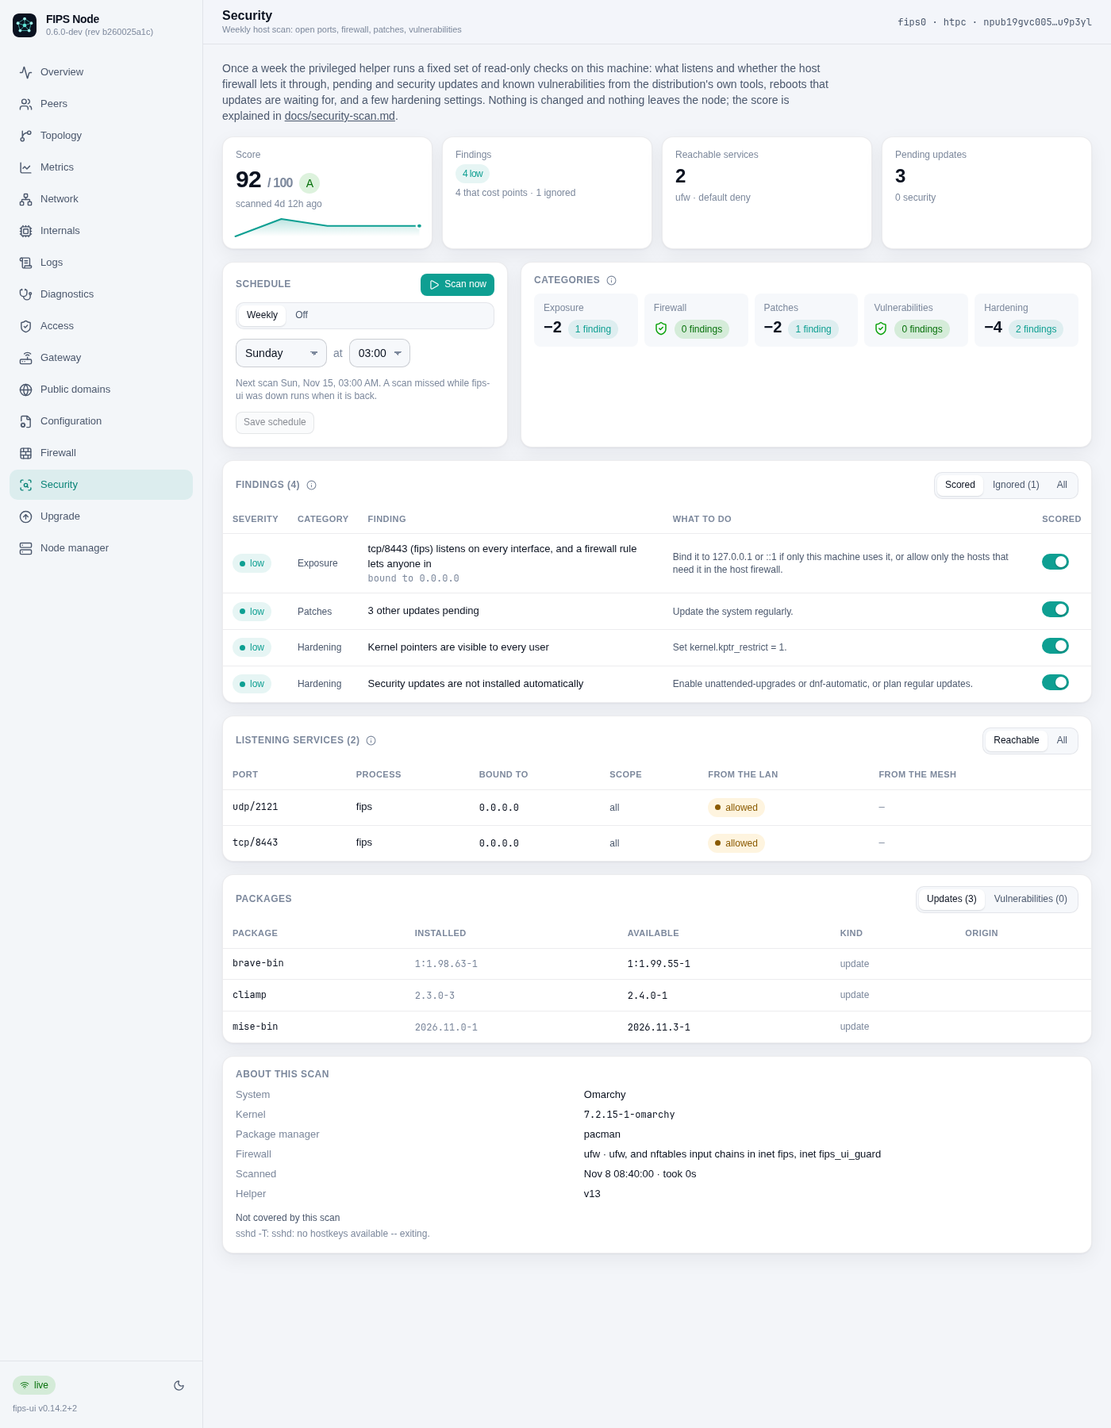
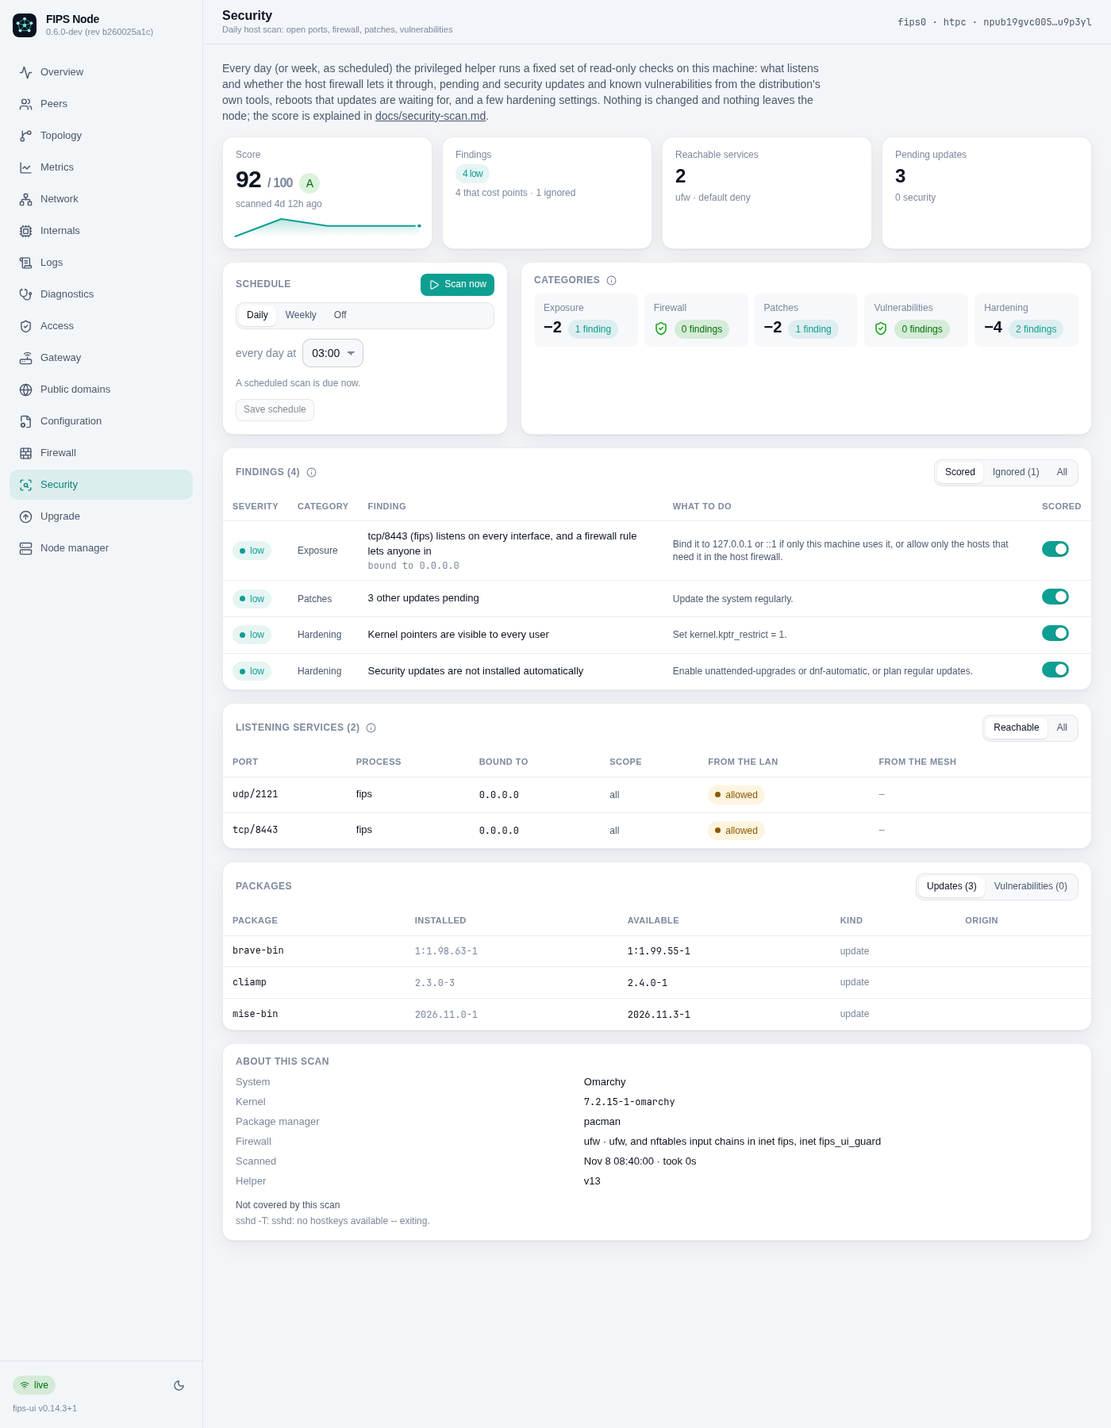
Security scan: daily by default, weekly as an option (#65)
The schedule offers Daily at an hour (the default, 03:00) or Weekly on a weekday. A schedule saved by an earlier version stays weekly.

diff --git a/web/src/views/Security.tsx b/web/src/views/Security.tsx
@@ -41,7 +41,7 @@ export function Security({ readOnly }: { readOnly: boolean }) {
   return (
     <div className="grid gap-4 fade-in">
       <p className="text-ink-2 text-sm max-w-3xl">
-        Once a week the privileged helper runs a fixed set of read-only checks on this machine: what listens and whether the host firewall lets it through,
+        Every day (or week, as scheduled) the privileged helper runs a fixed set of read-only checks on this machine: what listens and whether the host firewall lets it through,
         pending and security updates and known vulnerabilities from the distribution's own tools, reboots that updates are waiting for, and a few hardening settings.
         Nothing is changed and nothing leaves the node; the score is explained in <a className="underline" href="https://github.com/fr34aky/fips-ui/blob/main/docs/security-scan.md" target="_blank" rel="noreferrer">docs/security-scan.md</a>.
       </p>
@@ -108,13 +108,15 @@ function SeverityCounts({ report }: { report: Report }) {
   return <span className="flex gap-1.5 flex-wrap text-base">{shown.map((s) => <Chip key={s} tone={severityTone(s)} dot={false}>{counts[s]} {s}</Chip>)}</span>;
 }
 
-function ScheduleCard({ settings, running, startedAt, nextRun, available, readOnly, onScan, onSaved }: { settings: ScanSettings; running: boolean; startedAt?: number; nextRun: number | null; available: boolean; readOnly: boolean; onScan: () => void; onSaved: () => void }) {
+function ScheduleCard({ settings: saved, running, startedAt, nextRun, available, readOnly, onScan, onSaved }: { settings: ScanSettings; running: boolean; startedAt?: number; nextRun: number | null; available: boolean; readOnly: boolean; onScan: () => void; onSaved: () => void }) {
   const toast = useToast();
   const now = useNow(1000);
+  // A managed node on a fips-ui before 0.15 answers without `every`: it scans weekly.
+  const settings = useMemo(() => ({ ...saved, every: saved.every ?? 'week' }), [saved]);
   const [draft, setDraft] = useState(settings);
   const [busy, setBusy] = useState(false);
-  useEffect(() => setDraft(settings), [settings.enabled, settings.weekday, settings.hour]); // eslint-disable-line react-hooks/exhaustive-deps
-  const dirty = draft.enabled !== settings.enabled || draft.weekday !== settings.weekday || draft.hour !== settings.hour;
+  useEffect(() => setDraft(settings), [settings.enabled, settings.every, settings.weekday, settings.hour]); // eslint-disable-line react-hooks/exhaustive-deps
+  const dirty = draft.enabled !== settings.enabled || draft.every !== settings.every || draft.weekday !== settings.weekday || draft.hour !== settings.hour;
   const save = async () => {
     setBusy(true);
     try { await securityApi.saveSettings(draft); toast('ok', 'Schedule saved'); onSaved(); }
@@ -125,10 +127,10 @@ function ScheduleCard({ settings, running, startedAt, nextRun, available, readOn
     <Card title="Schedule" actions={!readOnly && <button className="btn primary sm" disabled={running || !available} onClick={onScan} title={available ? 'Run the checks now' : 'The scan cannot run here yet: see the note above'}>{running ? <RefreshCw size={14} className="animate-spin" /> : <Play size={14} />}{running ? 'Scanning…' : 'Scan now'}</button>}>
       <div className="grid gap-3 text-sm">
         {running && <div className="text-ink-2 pulse">Scanning since {startedAt ? fmtDuration(Math.round((now - startedAt) / 1000)) : 'now'}…</div>}
-        <Segmented value={draft.enabled ? 'on' : 'off'} onChange={(v) => setDraft({ ...draft, enabled: v === 'on' })} options={[{ value: 'on', label: 'Weekly' }, { value: 'off', label: 'Off' }]} />
+        <Segmented value={draft.enabled ? draft.every : 'off'} onChange={(v) => setDraft(v === 'off' ? { ...draft, enabled: false } : { ...draft, enabled: true, every: v })} options={[{ value: 'day', label: 'Daily' }, { value: 'week', label: 'Weekly' }, { value: 'off', label: 'Off' }]} />
         <div className="flex gap-2 items-center flex-wrap">
-          <select className="input w-auto" disabled={!draft.enabled || readOnly} value={draft.weekday} onChange={(e) => setDraft({ ...draft, weekday: Number(e.target.value) })}>{WEEKDAYS.map((d, i) => <option key={d} value={i}>{d}</option>)}</select>
-          <span className="text-ink-3">at</span>
+          {draft.every === 'week' && <select className="input w-auto" disabled={!draft.enabled || readOnly} value={draft.weekday} onChange={(e) => setDraft({ ...draft, weekday: Number(e.target.value) })}>{WEEKDAYS.map((d, i) => <option key={d} value={i}>{d}</option>)}</select>}
+          <span className="text-ink-3">{draft.every === 'week' ? 'at' : 'every day at'}</span>
           <select className="input w-auto" disabled={!draft.enabled || readOnly} value={draft.hour} onChange={(e) => setDraft({ ...draft, hour: Number(e.target.value) })}>{Array.from({ length: 24 }, (_, h) => <option key={h} value={h}>{String(h).padStart(2, '0')}:00</option>)}</select>
         </div>
         <div className="text-xs text-ink-3">{nextRun === null ? 'Automatic scans are off.' : nextRun <= now ? 'A scheduled scan is due now.' : `Next scan ${fmtSlot(nextRun)}. A scan missed while fips-ui was down runs when it is back.`}</div>

diff --git a/server/security.ts b/server/security.ts
@@ -1,4 +1,4 @@
-// The weekly security scan: the privileged helper's `security-scan` gathers raw output of a fixed set of read-only
+// The security scan (daily by default): the privileged helper's `security-scan` gathers raw output of a fixed set of read-only
 // commands (scripts/fips-ui-helper), and everything here turns it into a report: listeners and whether the host
 // firewall lets them through, pending and security updates, known vulnerabilities from the distribution's own
 // tools, reboot needs and a few hardening checks, scored 0-100 (docs/security-scan.md). Parsing and scoring are pure
@@ -877,7 +877,7 @@ export function summarise(r: Report): Summary {
 }
 
 // ---------------------------------------------------------------------------------------------
-// The scanner: weekly schedule, one scan at a time, the newest reports kept
+// The scanner: daily or weekly schedule, one scan at a time, the newest reports kept
 // ---------------------------------------------------------------------------------------------
 
 const FILE = process.env.FIPS_UI_SECURITY_FILE ?? join(process.env.XDG_CONFIG_HOME ?? join(homedir(), '.config'), 'fips-ui', 'security.json');
@@ -885,8 +885,9 @@ const KEEP_REPORTS = 12;
 /** After a scan that could not run, the next automatic attempt waits this long. */
 const RETRY_MS = 60 * 60_000;
 
-export interface ScanSettings { enabled: boolean; /** 0 = Sunday */ weekday: number; hour: number }
-export const DEFAULT_SETTINGS: ScanSettings = { enabled: true, weekday: 0, hour: 3 };
+/** `every`: a scan each day at `hour`, or each week on `weekday` at `hour`. Absent in settings saved before 0.15: weekly. */
+export interface ScanSettings { enabled: boolean; every: 'day' | 'week'; /** 0 = Sunday */ weekday: number; hour: number }
+export const DEFAULT_SETTINGS: ScanSettings = { enabled: true, every: 'day', weekday: 0, hour: 3 };
 
 export class SettingsError extends Error {}
 /** A finding id as the page sends it back: what analyse() gave it, nothing longer. */
@@ -897,30 +898,34 @@ export function validateFindingId(id: unknown): string {
 export function validateSettings(input: unknown): ScanSettings {
   const x = (input ?? {}) as Partial<ScanSettings>;
   if (typeof x.enabled !== 'boolean') throw new SettingsError('enabled must be true or false');
+  if (x.every !== undefined && x.every !== 'day' && x.every !== 'week') throw new SettingsError("every must be 'day' or 'week'");
   if (!Number.isInteger(x.weekday) || x.weekday! < 0 || x.weekday! > 6) throw new SettingsError('weekday must be 0 (Sunday) to 6');
   if (!Number.isInteger(x.hour) || x.hour! < 0 || x.hour! > 23) throw new SettingsError('hour must be 0 to 23');
-  return { enabled: x.enabled, weekday: x.weekday!, hour: x.hour! };
+  return { enabled: x.enabled, every: x.every ?? 'week', weekday: x.weekday!, hour: x.hour! };
 }
+
+/** Days between two slots. */
+const periodDays = (s: ScanSettings) => (s.every === 'day' ? 1 : 7);
 
 /** The latest scheduled slot at or before `now`, in local time. */
 function lastSlot(s: ScanSettings, now: number): number {
   const d = new Date(now);
   d.setHours(s.hour, 0, 0, 0);
-  d.setDate(d.getDate() - ((d.getDay() - s.weekday + 7) % 7));
-  if (d.getTime() > now) d.setDate(d.getDate() - 7);
+  if (s.every === 'week') d.setDate(d.getDate() - ((d.getDay() - s.weekday + 7) % 7));
+  if (d.getTime() > now) d.setDate(d.getDate() - periodDays(s));
   return d.getTime();
 }
 
 /**
- * When the next automatic scan is due: at the weekly slot, or at once when a slot passed since `since` (the last
+ * When the next automatic scan is due: at the daily or weekly slot, or at once when a slot passed since `since` (the last
  * scan, or when the scanner started on a node never scanned) without a scan, e.g. while fips-ui was down. After a
  * failed attempt at a slot, it is tried again an hour later.
  */
 export function nextRun(s: ScanSettings, since: number, now: number, lastFailure?: number): number | null {
   if (!s.enabled) return null;
   const slot = lastSlot(s, now);
-  // A week later on the calendar: the same local hour across a daylight-saving change.
-  const d = new Date(slot); d.setDate(d.getDate() + 7);
+  // A day or a week later on the calendar: the same local hour across a daylight-saving change.
+  const d = new Date(slot); d.setDate(d.getDate() + periodDays(s));
   const following = d.getTime();
   if (since >= slot) return following;
   if (lastFailure !== undefined && lastFailure >= slot) return Math.min(following, lastFailure + RETRY_MS);

diff --git a/test/security.test.ts b/test/security.test.ts
@@ -1,5 +1,5 @@
 // The security scan (server/security.ts): parsers against tool output, the firewall's input path, scoring, the
-// weekly schedule and the scanner with a fake helper.
+// daily or weekly schedule and the scanner with a fake helper.
 import { test } from 'node:test';
 import assert from 'node:assert/strict';
 import { mkdtempSync, readdirSync, readFileSync } from 'node:fs';
@@ -273,7 +273,7 @@ test('analyse: the report from a whole scan', () => {
 });
 
 test('nextRun: weekly slot, missed slots, failures, disabled', () => {
-  const s = { enabled: true, weekday: 0, hour: 3 };
+  const s = { enabled: true, every: 'week' as const, weekday: 0, hour: 3 };
   const sunday3 = new Date(2026, 9, 25, 3, 0, 0).getTime(); // Sunday 25 Oct 2026, 03:00 local
   const wed = new Date(2026, 9, 28, 12, 0, 0).getTime();
   // Scanned at the last slot: next Sunday.
@@ -286,6 +286,14 @@ test('nextRun: weekly slot, missed slots, failures, disabled', () => {
   // Across a daylight-saving change the next scan keeps its local hour.
   const next = new Date(nextRun({ ...s, weekday: 3, hour: 2 }, wed, wed)!);
   assert.deepEqual([next.getDay(), next.getHours(), next.getMinutes()], [3, 2, 0]);
+  // Daily: the slot is today's hour, or yesterday's when it has not come yet; a saved schedule without `every` is weekly.
+  const daily = { ...s, every: 'day' as const };
+  assert.equal(nextRun(daily, wed - 10 * 3600_000, wed), new Date(2026, 9, 28, 3).getTime()); // last scan 02:00: today's 03:00 was missed
+  assert.equal(nextRun(daily, wed, wed), new Date(2026, 9, 29, 3).getTime());
+  assert.equal(nextRun(daily, wed, new Date(2026, 9, 29, 1).getTime()), new Date(2026, 9, 29, 3).getTime());
+  assert.equal(validateSettings({ enabled: true, weekday: 0, hour: 3 }).every, 'week');
+  assert.equal(validateSettings({ enabled: true, every: 'day', weekday: 0, hour: 3 }).every, 'day');
+  assert.throws(() => validateSettings({ enabled: true, every: 'month', weekday: 0, hour: 3 }), /every/);
   assert.throws(() => validateSettings({ enabled: true, weekday: 7, hour: 3 }), /weekday/);
   assert.throws(() => validateSettings({ enabled: 'yes', weekday: 0, hour: 3 }), /enabled/);
 });
@@ -309,10 +317,10 @@ test('SecurityScanner: scan, keep the newest reports, settings, failures', async
   await sc.scan();
   assert.match(sc.status().lastError!, /no security-scan/);
   assert.equal(sc.history().length, 12);
-  await sc.saveSettings({ enabled: false, weekday: 2, hour: 4 });
+  await sc.saveSettings({ enabled: false, every: 'week', weekday: 2, hour: 4 });
   const again = new SecurityScanner({ file: join(dir, 'security.json'), now: () => t, available: async () => true, context: async () => ({}), run: async () => scan({}) });
   await again.start(); again.stop();
-  assert.deepEqual(again.status().settings, { enabled: false, weekday: 2, hour: 4 });
+  assert.deepEqual(again.status().settings, { enabled: false, every: 'week', weekday: 2, hour: 4 });
   assert.equal(again.history().length, 12);
 });
 

diff --git a/web/src/components/Shell.tsx b/web/src/components/Shell.tsx
@@ -21,7 +21,7 @@ export const NAV: { id: ViewId; label: string; icon: ReactNode; hint: string }[]
   { id: 'pubdom', label: 'Public domains', icon: <Globe size={17} />, hint: 'Domains served over fips, and the resolver for them' },
   { id: 'config', label: 'Configuration', icon: <FileCog size={17} />, hint: 'Edit fips.yaml with automatic rollback' },
   { id: 'firewall', label: 'Firewall', icon: <BrickWall size={17} />, hint: 'fips0 firewall service and inbound rules' },
-  { id: 'security', label: 'Security', icon: <ScanSearch size={17} />, hint: 'Weekly host scan: open ports, firewall, patches, vulnerabilities' },
+  { id: 'security', label: 'Security', icon: <ScanSearch size={17} />, hint: 'Daily host scan: open ports, firewall, patches, vulnerabilities' },
   { id: 'upgrade', label: 'Upgrade', icon: <ArrowUpCircle size={17} />, hint: 'Install a release or build master' },
   { id: 'fleet', label: 'Node manager', icon: <Server size={17} />, hint: 'Other fips nodes managed from this one' },
 ];

diff --git a/web/src/lib/security.ts b/web/src/lib/security.ts
@@ -1,4 +1,4 @@
-// Client for the weekly security scan (server/security.ts): the report, its history and the schedule. Always the
+// Client for the security scan (server/security.ts): the report, its history and the schedule. Always the
 // node the page looks at (a managed node's scan is reached through this node's proxy).
 import { api } from './api';
 import type { HelperInfo } from './admin';
@@ -33,7 +33,7 @@ export interface Report {
   notes: string[];
 }
 export type Grade = 'A' | 'B' | 'C' | 'D' | 'F';
-export interface ScanSettings { enabled: boolean; weekday: number; hour: number }
+export interface ScanSettings { enabled: boolean; /** each day at `hour`, or each week on `weekday` at `hour` */ every: 'day' | 'week'; weekday: number; hour: number }
 export interface SecurityState {
   settings: ScanSettings; running: boolean; startedAt?: number; nextRun: number | null;
   lastError?: string; lastFailure?: number; latest: Report | null;

diff --git a/web/src/views/Fleet.tsx b/web/src/views/Fleet.tsx
@@ -64,7 +64,7 @@ function Nodes({ data, own, onChanged, busy }: { data: FleetData; own?: string; 
     <div className="grid gap-3 pb-4">
       <div className="hidden md:block overflow-x-auto">
         <table className="data">
-          <thead><tr><th>Node</th><th>Status</th><th>Daemon</th><th>fips-ui</th><th>Uptime</th><th>Peers</th><th>Helper</th><th title="The node's latest weekly security scan">Security</th><th title="Whether every manager (this node and the standbys) is an admin on that node">Managers</th><th /></tr></thead>
+          <thead><tr><th>Node</th><th>Status</th><th>Daemon</th><th>fips-ui</th><th>Uptime</th><th>Peers</th><th>Helper</th><th title="The node's latest security scan">Security</th><th title="Whether every manager (this node and the standbys) is an admin on that node">Managers</th><th /></tr></thead>
           <tbody>
             {data.nodes.map((n) => (
               <tr key={n.npub}>

diff --git a/server/index.ts b/server/index.ts
@@ -374,7 +374,7 @@ function securityUnavailable(h: HelperInfo): string {
   return `the security scan needs helper v${SECURITY_HELPER_VERSION} (installed: ${h.available && h.version ? `v${h.version}` : 'none'}); run ${install} in the fips-ui directory`;
 }
 
-// The weekly security scan (server/security.ts) through the helper's read-only security-scan. It changes nothing
+// The security scan (server/security.ts) through the helper's read-only security-scan. It changes nothing
 // on the node, so it runs in read-only mode too; starting one by hand and the schedule are changes.
 const LOOPBACK_HOSTS = new Set(['127.0.0.1', '::1', 'localhost']);
 const security = new SecurityScanner({

diff --git a/README.md b/README.md
@@ -29,7 +29,7 @@ NixOS module), FreeBSD, pfSense, macOS and Windows.
 | **Public domains** | Where the node runs [fips-pub-domains](https://github.com/fr34aky/fips-pub-domains): the domains this node serves over fips (names, relays, when the claim was published, the DNS record to add, who attested it) and the domains its resolver has verified, read from their control sockets. Admins install and update both from the GitHub releases, start and stop their units, add and edit zone files as a table, edit both configurations, publish now, check the DNS record, forget a pin and flush caches ([docs/public-domains.md](docs/public-domains.md)). |
 | **Configuration** | Edit `fips.yaml` (`/etc/fips`, `/usr/local/etc/fips` on FreeBSD and macOS, `/var/lib/fips` on NixOS) with live YAML validation, a diff of your changes and backups. Secrets stay redacted and are restored on save; applying restarts the daemon and rolls back automatically if it does not stay up. Offers template merges from daemon upgrades that need review. See [docs/node-management.md](docs/node-management.md). |
 | **Firewall** | Enable, start, stop and reload `fips-firewall`, see drop counters, add inbound rules for specific npubs, hosts-file names, prefixes or anyone, one-click "allow" for a filtered listener, and raw editing of other drop-ins. Every change is validated with `nft -c` before it is written. |
-| **Security** | A weekly scan of the machine (Linux): every listening service and whether the host firewall lets it in from the LAN and from the mesh, pending and security updates, known vulnerabilities from the distribution's own tools, reboots updates wait for, and SSH, kernel, account and fips file settings, scored 0-100 with a fix for each finding and a trend over the last 12 scans; a finding can be switched out of the score. Read-only; through the helper ([docs/security-scan.md](docs/security-scan.md)). Admins only. |
+| **Security** | A daily scan of the machine (Linux): every listening service and whether the host firewall lets it in from the LAN and from the mesh, pending and security updates, known vulnerabilities from the distribution's own tools, reboots updates wait for, and SSH, kernel, account and fips file settings, scored 0-100 with a fix for each finding and a trend over the last 12 scans; a finding can be switched out of the score. Read-only; through the helper ([docs/security-scan.md](docs/security-scan.md)). Admins only. |
 | **Upgrade** | Install the latest fips release (checksum-verified) or build any ref from source with cargo, with backups and rollback; afterwards `fips.yaml` is merged with the new version's template ([docs/upgrade.md](docs/upgrade.md)). Root steps go through a tiny helper you install once from a shell. On a machine without fips it **installs fips** itself, with a persistent identity and bootstrap peers ([docs/install.md](docs/install.md#installing-the-fips-daemon)). Also updates **fips-ui itself** to its newest release, shown next to the version in the sidebar ([docs/self-update.md](docs/self-update.md)). |
 | **Node manager** | Other fips nodes whose fips-ui this one reaches over the mesh: reachability, daemon and fips-ui versions, available updates, helper version, security grade, and whether every manager is listed as an admin there; standby managers for the day this node is lost ([docs/fleet.md](docs/fleet.md)). Superadmins only. |
 

diff --git a/docs/security-scan.md b/docs/security-scan.md
@@ -1,9 +1,9 @@
 # Security scan
 
-The **Security** page shows a weekly scan of the machine fips-ui runs on: which services listen and whether the
+The **Security** page shows a daily scan of the machine fips-ui runs on: which services listen and whether the
 host firewall lets a new connection in, pending and security updates, known vulnerabilities in installed packages,
 reboots that updates are waiting for, and a few hardening settings. Each finding comes with a fix, and the whole
-report is scored 0–100 with a grade, so a change shows from one week to the next. The Node manager shows the grade
+report is scored 0–100 with a grade, so a change shows from one day to the next. The Node manager shows the grade
 of every managed node ([fleet.md](fleet.md)).
 
 ![The Security page](screenshots/security.png)
@@ -92,7 +92,8 @@ page lists what the scan could not cover.
 
 ## Schedule and storage
 
-Scans run weekly at a chosen weekday and hour (default Sunday 03:00, local time), and on **Scan now**. A slot missed
+Scans run daily at a chosen hour (default 03:00, local time) or weekly at a chosen weekday and hour, and on
+**Scan now**. A slot missed
 while fips-ui was down runs when it is back; after a failed scan it is tried again an hour later. A scan takes from
 seconds to a few minutes, mostly the package manager's metadata.
 
@@ -108,6 +109,6 @@ GET  /api/admin/security              schedule, running, next run, the latest re
 GET  /api/admin/security/history      score, grade and counts of the kept reports
 GET  /api/admin/security/summary      the latest score and counts (the Node manager reads this)
 POST /api/admin/security/scan         start a scan (202); poll GET until running is false
-POST /api/admin/security/settings     {enabled, weekday (0 = Sunday … 6), hour (0-23)}
+POST /api/admin/security/settings     {enabled, every ('day' | 'week'; absent: 'week'), weekday (0 = Sunday … 6), hour (0-23)}
 POST /api/admin/security/ignore       {id, ignored}: leave a finding out of the score (true) or count it again
 ```

diff --git a/docs/fleet.md b/docs/fleet.md
@@ -38,7 +38,7 @@ The table shows for each node:
 | Status | *reachable*; *offline* (no answer); *not allowed* (the node refuses the manager's npub, or its main listener answered because mesh access is off there or the port differs); *viewer only* (listed, but not as an admin); *not ready* (its mesh listener is up but its guard or identity is not); *restarting* (its fips-ui was told to update or to install fips); *error* (an unexpected answer). The last known versions stay while a node is away, with when it was last seen. |
 | Daemon, fips-ui | The running versions, and a chip when the node's own release check found a newer one, or a daemon restart is pending there. |
 | Helper | The node's privileged helper version; a warning when its fips-ui checkout ships a newer one (run `sudo ./deploy/setup-local.sh` there). |
-| Security | Grade and score of the node's latest weekly security scan, with its critical and high findings; it opens the node's Security page ([security-scan.md](security-scan.md)). `n/a` where the node cannot scan (helper v13 on Linux), `–` for a fips-ui without the scan. |
+| Security | Grade and score of the node's latest security scan, with its critical and high findings; it opens the node's Security page ([security-scan.md](security-scan.md)). `n/a` where the node cannot scan (helper v13 on Linux), `–` for a fips-ui without the scan. |
 | Managers | Whether every manager (see below) is an admin on that node. |
 
 The manager's requests carry `user-agent: fips-ui-fleet`, so a managed node does not mistake them for a

diff --git a/CHANGELOG.md b/CHANGELOG.md
@@ -15,6 +15,13 @@ and this project adheres to [Semantic Versioning](https://semver.org/spec/v2.0.0
   comparable, and to the grade the Node manager shows. The ignored ids are kept
   with the scan schedule (`POST /api/admin/security/ignore`).
 
+### Changed
+
+- The security scan runs daily by default, at 03:00; the schedule offers
+  **Daily** at an hour or **Weekly** on a weekday. A schedule saved by an
+  earlier version stays weekly; a node that never saved one scans daily from
+  now on.
+
 ## [0.14.2] - 2026-11-05
 
 ### Fixed
